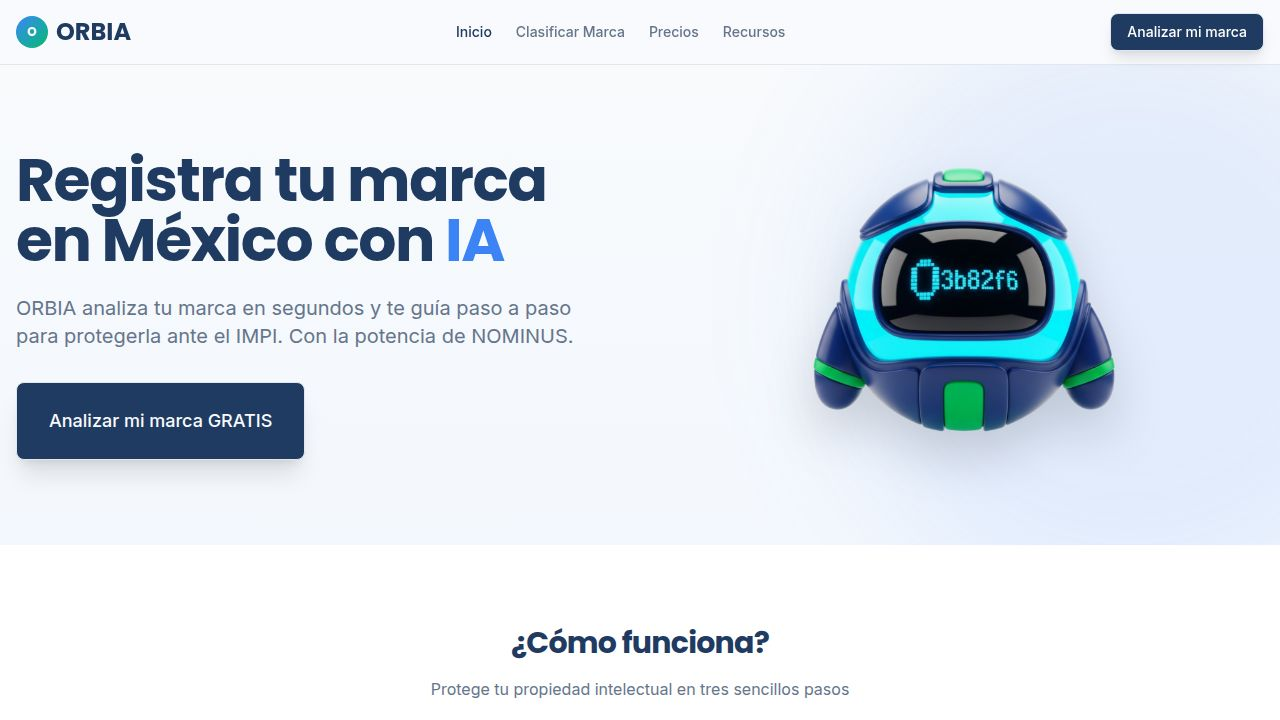
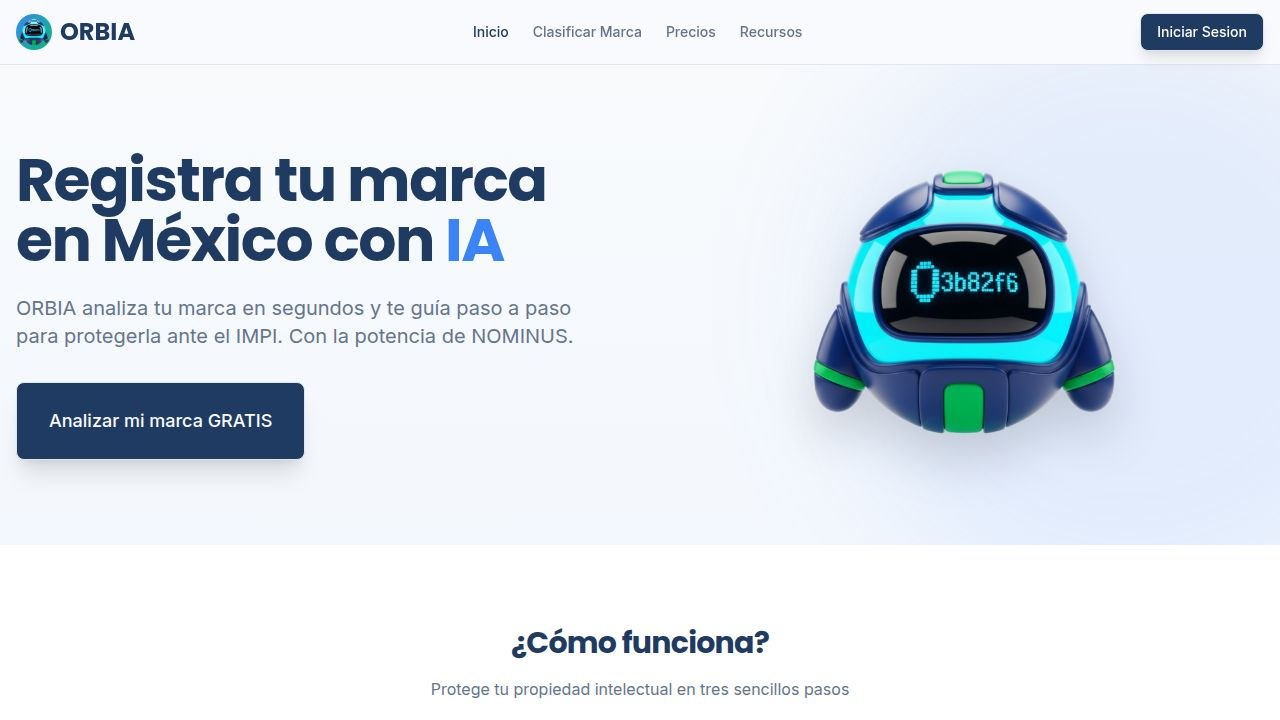
Update the Orbia mascot image across the entire platform
Replace all instances of the old Orbia mascot URL with a new one imported from `@assets` and update favicon and opengraph image.

Replit-Commit-Author: Agent
Replit-Commit-Session-Id: 69b83002-6190-42ef-83f4-60b037cdca56
Replit-Commit-Checkpoint-Type: full_checkpoint
Replit-Commit-Event-Id: 82f20a3d-d286-448e-8f24-e70d0c4ce0b8
Replit-Commit-Screenshot-Url: https://storage.googleapis.com/screenshot-production-us-central1/1cbb5f23-d50f-4cc0-b332-96430e918ebf/69b83002-6190-42ef-83f4-60b037cdca56/5znEHdt
Replit-Helium-Checkpoint-Created: true

diff --git a/client/src/pages/Registro.tsx b/client/src/pages/Registro.tsx
@@ -7,8 +7,7 @@ import { Label } from '@/components/ui/label';
 import { Card, CardContent, CardHeader, CardTitle, CardDescription } from '@/components/ui/card';
 import { AlertCircle, CheckCircle, Loader2 } from 'lucide-react';
 import { motion } from 'framer-motion';
-
-const ORBIA_MASCOT_URL = 'https://res.cloudinary.com/dz964kisp/image/upload/v1764954057/orbia_mascot_sz8nnb.png';
+import { MASCOT_URL } from '@/components/mascot/OrbiaMascot';
 
 export default function Registro() {
   const [email, setEmail] = useState('');
@@ -86,7 +85,7 @@ export default function Registro() {
         <Card className="shadow-xl border-0">
           <CardHeader className="text-center space-y-2">
             <div className="mx-auto w-16 h-16 rounded-full bg-gradient-to-br from-secondary to-accent flex items-center justify-center overflow-hidden mb-2">
-              <img src={ORBIA_MASCOT_URL} alt="ORBIA" className="w-14 h-14 object-contain" />
+              <img src={MASCOT_URL} alt="ORBIA" className="w-14 h-14 object-contain" />
             </div>
             <CardTitle className="text-2xl font-display" data-testid="text-registro-title">Crear Cuenta</CardTitle>
             <CardDescription>Registrate en ORBIA para proteger tu marca</CardDescription>

diff --git a/client/src/pages/Login.tsx b/client/src/pages/Login.tsx
@@ -7,8 +7,7 @@ import { Label } from '@/components/ui/label';
 import { Card, CardContent, CardHeader, CardTitle, CardDescription } from '@/components/ui/card';
 import { AlertCircle, Loader2 } from 'lucide-react';
 import { motion } from 'framer-motion';
-
-const ORBIA_MASCOT_URL = 'https://res.cloudinary.com/dz964kisp/image/upload/v1764954057/orbia_mascot_sz8nnb.png';
+import { MASCOT_URL } from '@/components/mascot/OrbiaMascot';
 
 export default function Login() {
   const [email, setEmail] = useState('');
@@ -48,7 +47,7 @@ export default function Login() {
         <Card className="shadow-xl border-0">
           <CardHeader className="text-center space-y-2">
             <div className="mx-auto w-16 h-16 rounded-full bg-gradient-to-br from-secondary to-accent flex items-center justify-center overflow-hidden mb-2">
-              <img src={ORBIA_MASCOT_URL} alt="ORBIA" className="w-14 h-14 object-contain" />
+              <img src={MASCOT_URL} alt="ORBIA" className="w-14 h-14 object-contain" />
             </div>
             <CardTitle className="text-2xl font-display" data-testid="text-login-title">Iniciar Sesion</CardTitle>
             <CardDescription>Ingresa a tu cuenta de ORBIA</CardDescription>

diff --git a/client/src/components/layout/Header.tsx b/client/src/components/layout/Header.tsx
@@ -2,8 +2,7 @@ import { Link, useLocation } from 'wouter';
 import { Button } from '@/components/ui/button';
 import { useAuth } from '@/contexts/AuthContext';
 import { LogOut } from 'lucide-react';
-
-const ORBIA_MASCOT_URL = 'https://res.cloudinary.com/dz964kisp/image/upload/v1764954057/orbia_mascot_sz8nnb.png';
+import { MASCOT_URL } from '@/components/mascot/OrbiaMascot';
 
 export function Header() {
   const [location, navigate] = useLocation();
@@ -19,7 +18,7 @@ export function Header() {
       <div className="container mx-auto px-4 h-16 flex items-center justify-between">
         <Link href="/" className="flex items-center gap-2 font-display font-bold text-2xl text-primary hover:opacity-90 transition-opacity">
           <div className="w-9 h-9 rounded-full bg-gradient-to-br from-secondary to-accent flex items-center justify-center overflow-hidden">
-            <img src={ORBIA_MASCOT_URL} alt="ORBIA" className="w-8 h-8 object-contain" />
+            <img src={MASCOT_URL} alt="ORBIA" className="w-8 h-8 object-contain" />
           </div>
           ORBIA
         </Link>

diff --git a/client/src/components/mascot/OrbiaMascot.tsx b/client/src/components/mascot/OrbiaMascot.tsx
@@ -1,12 +1,13 @@
 import { motion, Variants } from 'framer-motion';
-
-const ORBIA_MASCOT_URL = 'https://res.cloudinary.com/dz964kisp/image/upload/v1764954057/orbia_mascot_sz8nnb.png';
+import mascotImg from '@assets/mascota_orbia_1772224666030.png';
 
 interface OrbiaMascotProps {
   className?: string;
   state?: 'idle' | 'thinking' | 'happy' | 'worried';
   size?: 'sm' | 'md' | 'lg';
 }
+
+export const MASCOT_URL = mascotImg;
 
 export function OrbiaMascot({ className = '', state = 'idle', size = 'md' }: OrbiaMascotProps) {
   const sizeClasses = {
@@ -58,7 +59,7 @@ export function OrbiaMascot({ className = '', state = 'idle', size = 'md' }: Orb
       animate={state}
     >
       <img 
-        src={ORBIA_MASCOT_URL} 
+        src={mascotImg} 
         alt="ORBIA Mascota" 
         className="w-full h-full object-contain relative z-10 drop-shadow-2xl"
       />
